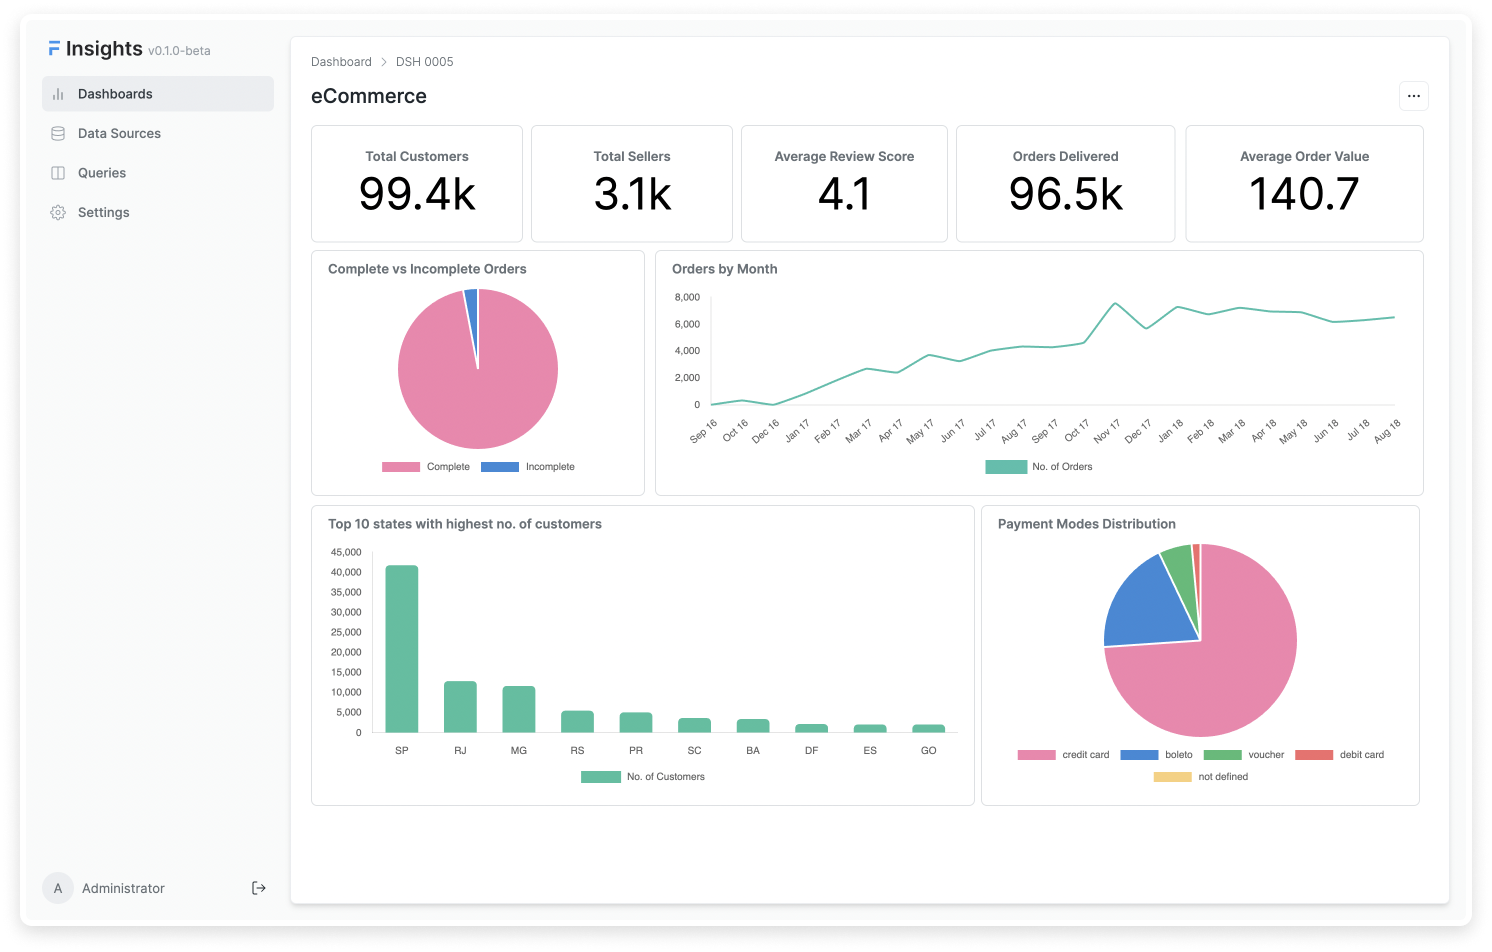
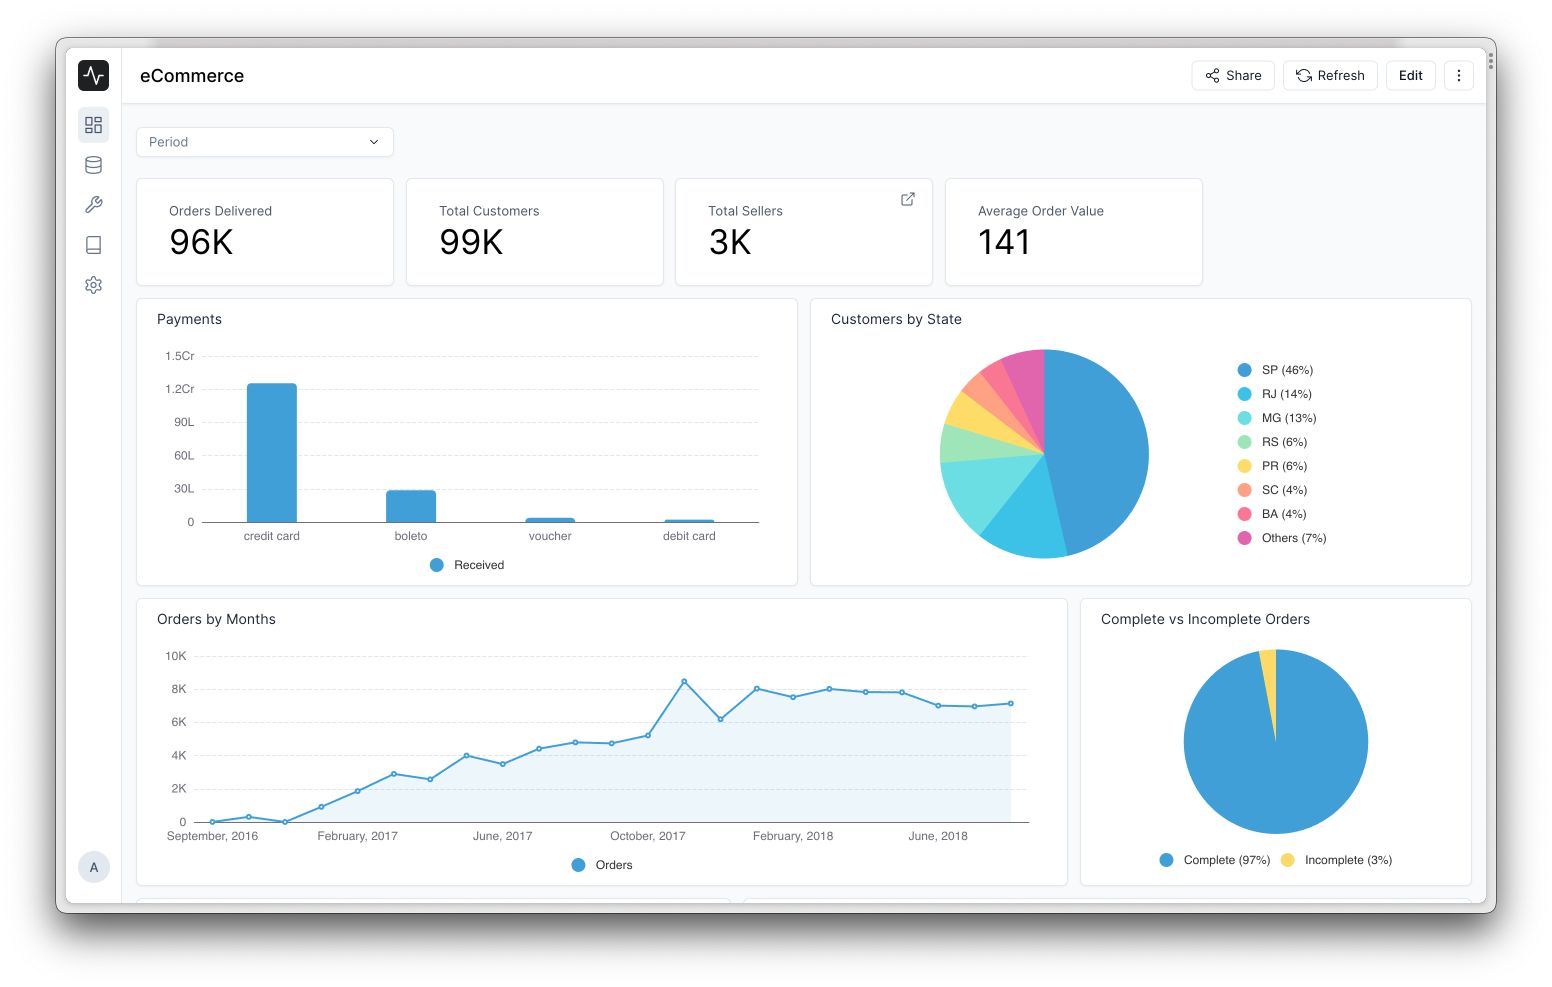
Merge branch 'develop' into insights-notebook

diff --git a/frappe/insights/README.md b/frappe/insights/README.md
@@ -1,9 +1,12 @@
 <div align="center" markdown="1">
 
-<img src=".github/logo.png" alt="Frappe Insights logo" width="384"/>
+<img src=".github/logo.png" alt="Frappe Insights logo" width="384" style="margin-bottom: 8px"/>
 
-**Free and Open Source Data Analytics Tool for your Frappe Apps**
+**Simple. Crafted. Powerful. Data Analysis.**
 
+![GitHub issues](https://img.shields.io/github/issues/frappe/insights)
+![GitHub license](https://img.shields.io/github/license/frappe/insights)
+![GitHub release (latest by date)](https://img.shields.io/github/v/release/frappe/insights)
 [![codecov](https://codecov.io/github/frappe/insights/branch/develop/graph/badge.svg?token=8ZXHCY4G9U)](https://codecov.io/github/frappe/insights)
 [![unittests](https://github.com/frappe/insights/actions/workflows/server-tests.yml/badge.svg)](https://github.com/frappe/insights/actions/workflows/server-tests.yml)
 
@@ -20,17 +23,38 @@
 </div>
 
 <div align="center" style="padding-top: 1rem; padding-bottom: 1rem; display: flex; justify-content:center;">
-	<a href=".github/preview.gif">Preview</a>
+	<a href="https://insights-demo.frappe.cloud">Live Demo</a>
 	-
 	<a href="https://docs.frappeinsights.com">Documentation</a>
 </div>
 
-## Features
+## Introduction
+Frappe Insights is an open-source project designed to simplify data analysis and reporting from databases. Built upon the Frappe Framework, Frappe Insights aims to provide an intuitive interface that enables users to effortlessly generate complex reports and gain valuable insights from their data.
 
-- **Multiple Data Sources** - Connect to multiple data sources and query them at one place.
-- **Complex Queries** - Write complex queries get the results in a tabular format.
-- **Visualize Data** - Visualize your data in the form of charts.
-- **Dashboards** - Create dashboards to automate tracking of important metrics.
+
+## Motivation
+The inspiration behind Frappe Insights was the need to simplify data analysis for the apps built upon Frappe Framework. While the framework provides robust tools for managing structured data using DocTypes, analyzing and visualizing that data often requires developer expertise. Frappe Insights aims to bridge this gap by offering a user-friendly solution that empowers non-technical users to perform data analysis tasks without relying on developers.
+
+## Key Features
+
+**Query Builder**: Frappe Insights offers a user-friendly query builder interface that allows users to create database queries without the need for extensive SQL knowledge. The interface provides a step-by-step approach for building queries, empowering users to easily select tables, apply filters, perform calculations, and more.
+
+**Visualizations and Dashboards**: Once a query is created, Frappe Insights enables users to visualize the results using a variety of charts and graphs. Users can easily create custom dashboards by combining multiple visualizations to gain a comprehensive view of their data.
+
+**Connectivity**: Frappe Insights currently supports integration with MySQL databases, allowing users to connect to their existing databases and work directly with their data. More database integrations are planned for the future.
+
+## Under the Hood
+
+[**Frappe Framework**](https://github.com/frappe/frappe): Frappe Insights is built upon the Frappe Framework, a full-stack web application framework written in Python and Javascript. The framework provides a robust foundation for building web applications, including a database abstraction layer, user authentication, and a REST API.
+
+[**Frappe UI**](https://github.com/frappe/frappe-ui): Frappe Insights uses the Frappe UI, a Vue-based UI library, to provide a modern and responsive user interface. The Frappe UI library provides a variety of components that can be used to build single-page applications on top of the Frappe Framework.
+
+[**SQLAlchemy**](https://github.com/sqlalchemy/sqlalchemy): Frappe Insights uses SQLAlchemy, a Python SQL toolkit and Object Relational Mapper, to interact with the database. SQLAlchemy provides a powerful and flexible interface for working with databases, allowing Frappe Insights to support multiple database integrations.
+
+[**eCharts**](https://github.com/apache/echarts): Frappe Insights uses eCharts, a powerful open-source charting and visualization library, to render charts and graphs. eCharts provides a variety of chart types and customization options, allowing Frappe Insights to provide a rich and interactive data visualization experience.
+
+[**Pandas**](https://github.com/pandas-dev/pandas): Frappe Insights uses Pandas, a Python data analysis library, to perform data analysis tasks. Pandas provides a variety of data structures and functions for working with structured data, allowing Frappe Insights to provide powerful data analysis capabilities.
+
 
 ## Installation
 ### Docker
